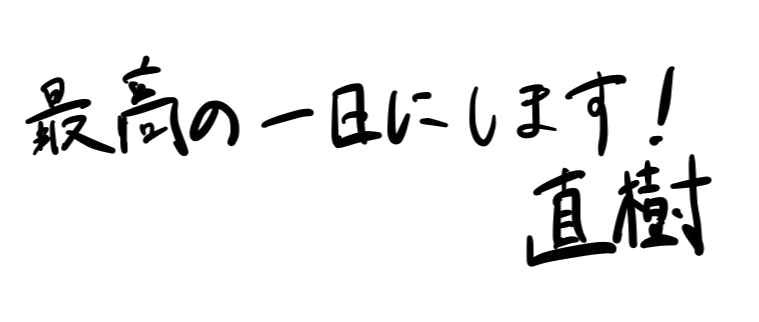
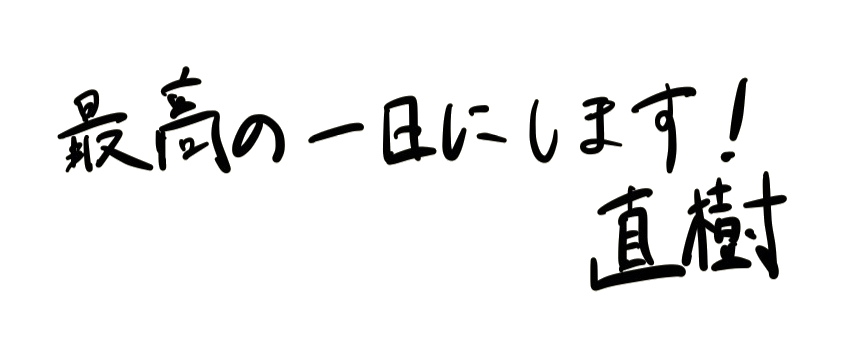
Sharpen album 5 from the original and refresh the host handwritten notes.

Changed region(s): [[0.0303, 0.1553, 0.9091, 0.4969], [0.6667, 0.4658, 0.9394, 0.8385]]

diff --git a/index.html b/index.html
@@ -170,8 +170,8 @@
         </div>
         <figure class="say">
           <picture>
-            <source srcset="assets/img/naoki-message.webp" type="image/webp">
-            <img src="assets/img/naoki-message.png" alt="最高の一日にします！　直樹" width="759" height="322" loading="lazy" decoding="async">
+            <source srcset="assets/img/naoki-message.webp?v=2" type="image/webp">
+            <img src="assets/img/naoki-message.png?v=2" alt="最高の一日にします！　直樹" width="844" height="357" loading="lazy" decoding="async">
           </picture>
         </figure>
       </div>
@@ -189,8 +189,8 @@
         </div>
         <figure class="say">
           <picture>
-            <source srcset="assets/img/yurika-message.webp" type="image/webp">
-            <img src="assets/img/yurika-message.png" alt="当日、皆様にお会いできることを心から楽しみにしております　有梨花" width="928" height="408" loading="lazy" decoding="async">
+            <source srcset="assets/img/yurika-message.webp?v=2" type="image/webp">
+            <img src="assets/img/yurika-message.png?v=2" alt="当日、皆様にお会いできることを心から楽しみにしております　有梨花" width="953" height="440" loading="lazy" decoding="async">
           </picture>
         </figure>
       </div>
@@ -372,7 +372,7 @@
       <figure><picture><source srcset="assets/img/album-2.webp" type="image/webp"><img src="assets/img/album-2.jpg" alt="" width="1400" height="933" loading="lazy" decoding="async"></picture></figure>
       <figure><picture><source srcset="assets/img/album-3.webp" type="image/webp"><img src="assets/img/album-3.jpg" alt="" width="1400" height="933" loading="lazy" decoding="async"></picture></figure>
       <figure><picture><source srcset="assets/img/album-4.webp" type="image/webp"><img src="assets/img/album-4.jpg" alt="" width="933" height="1400" loading="lazy" decoding="async"></picture></figure>
-      <figure><picture><source srcset="assets/img/album-5.webp?v=3" type="image/webp"><img src="assets/img/album-5.jpg?v=3" alt="" width="933" height="1400" loading="lazy" decoding="async"></picture></figure>
+      <figure><picture><source srcset="assets/img/album-5.webp?v=6" type="image/webp"><img src="assets/img/album-5.jpg?v=6" alt="" width="1600" height="2400" loading="lazy" decoding="async"></picture></figure>
       <figure><picture><source srcset="assets/img/album-6.webp" type="image/webp"><img src="assets/img/album-6.jpg" alt="" width="933" height="1400" loading="lazy" decoding="async"></picture></figure>
     </div>
     <div class="dots" id="dots"></div>
